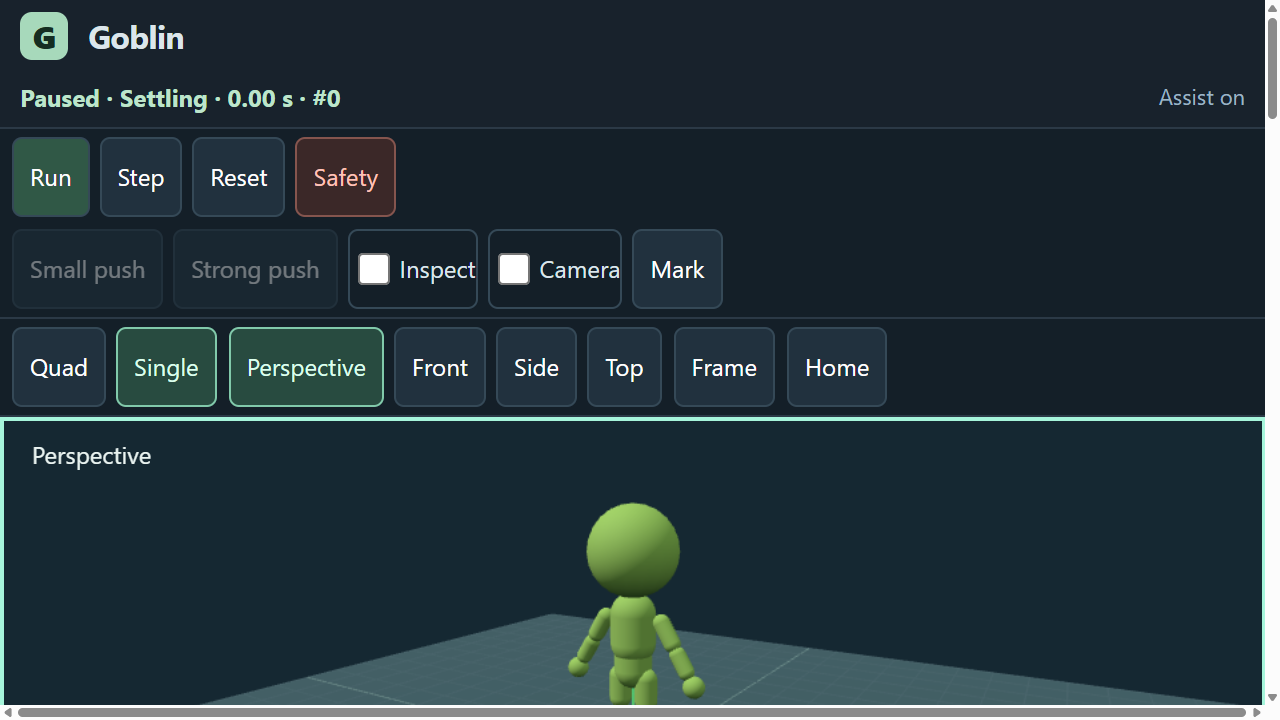
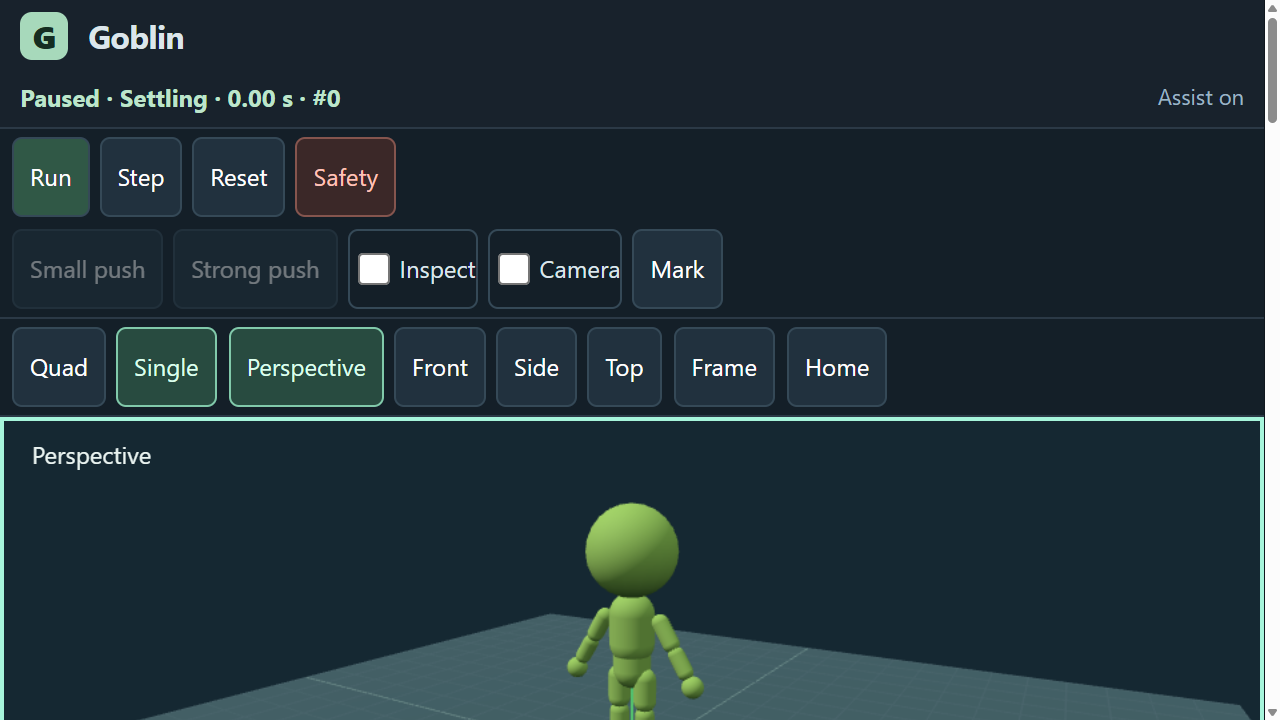
fix(ui): eliminate fractional page overflow at native browser zoom

Changed region(s): [[0.0, 0.9472, 1.0, 1.0], [0.9062, 0.1222, 0.9688, 0.1528]]

diff --git a/src/gameplay/playground-editor.css b/src/gameplay/playground-editor.css
@@ -1,5 +1,6 @@
 /* Editor shell owns DOM layout only; cameras and physics retain their existing owners. */
-body[data-playground]{font:13px/1.45 system-ui,sans-serif;background:#10171e;color:#dce6eb}
+/* Round fractional browser-zoom widths down before canvas/layout allocation. */
+body[data-playground]{font:13px/1.45 system-ui,sans-serif;background:#10171e;color:#dce6eb;overflow-x:clip;width:round(down,100%,1px)}
 body[data-playground] #app{height:100dvh;min-height:0;display:grid;grid-template-columns:minmax(0,1fr);grid-template-rows:auto auto minmax(0,1fr)}
 .editor-controls{position:sticky;top:0;z-index:10;min-width:0;background:#18222c}
 .editor-header{display:flex;align-items:center;gap:18px;padding:8px 16px;border-bottom:1px solid #2b3946;background:#18222c;min-height:46px}

diff --git a/docs/development/editor-ui.md b/docs/development/editor-ui.md
@@ -38,7 +38,9 @@ Korrekturen: Header/Transport sind im Dokumentfluss sticky; schmale/kurze Viewpo
 
 Native Hidden/Resume bleibt nach zwei begrenzten echten Fenster-Minimize-/Restoreproben ohne `visibilitychange` **offen**; kein synthetischer Ersatz und keine gelockerte Akzeptanz. Mobilhardware und Screenreader-Geräteabnahme sind ebenfalls nicht behauptet. Der historische G2-Fehlbefund bleibt dokumentiert; dieser Nachtrag verändert keine Physik oder Schwellen.
 
-[Nachprüfungsdaten](../evidence/issue113/review-result.json) · [Basis vor Umbau](../evidence/issue113/review-baseline.png) · [Kandidat](../evidence/issue113/review-candidate.png) · [200% Browserzoom](../evidence/issue113/review-zoom.png) · [Portrait mit Panel-Scroll](../evidence/issue113/review-portrait-scroll.png) · [Kurzes Querformat](../evidence/issue113/review-short-landscape.png). Native Quelle: `a20948b`, Build `5d82df1aae4ac2b9`, tracked inputs clean. Ungekürzte Baseline-/Kandidattraces und JSON-Downloads: `goblin-editor-review-V7NUMf/native-parity.json` unter Windows-Temp.
+[Nachprüfungsdaten](../evidence/issue113/review-result.json) · [Basis vor Umbau](../evidence/issue113/review-baseline.png) · [Kandidat](../evidence/issue113/review-candidate.png) · [200% Browserzoom](../evidence/issue113/review-zoom.png) · [Portrait mit Panel-Scroll](../evidence/issue113/review-portrait-scroll.png) · [Kurzes Querformat](../evidence/issue113/review-short-landscape.png). Screenshot-/Messsatz Build `bdff616fe1783d44`, vor Commit des letzten Pixelfixes aufgenommen; die enthaltene Metadatenrevision/dirty-Markierung bleiben ehrlich erhalten. Finaler sauberer Headzugang im PR/Issue. Ungekürzte Baseline-/Kandidattraces und JSON-Downloads: `goblin-editor-review-t3OKTR/native-parity.json` unter Windows-Temp.
+
+Letzter visueller Befund: Bei200% Zoom übersah ein Vergleich gegen `innerWidth` einen fractional viewport/Scrollbar-Überhang. Die Editorbreite wird nun auf ganze CSSpixel abgerundet, die Seite clippt horizontal; lokaler Kameraleisten-Scroll bleibt erhalten. Der Test prüft die Inhaltsbreite ohne Scrollbar und versucht ausdrücklich horizontales Seitenscrollen (`scrollX` muss0 bleiben). Keine Screenshotbehauptung aus einem bloßen DPR-Test.
 
 ## Layout und Archivkorrektur aus PR #115 (historisch)
 
